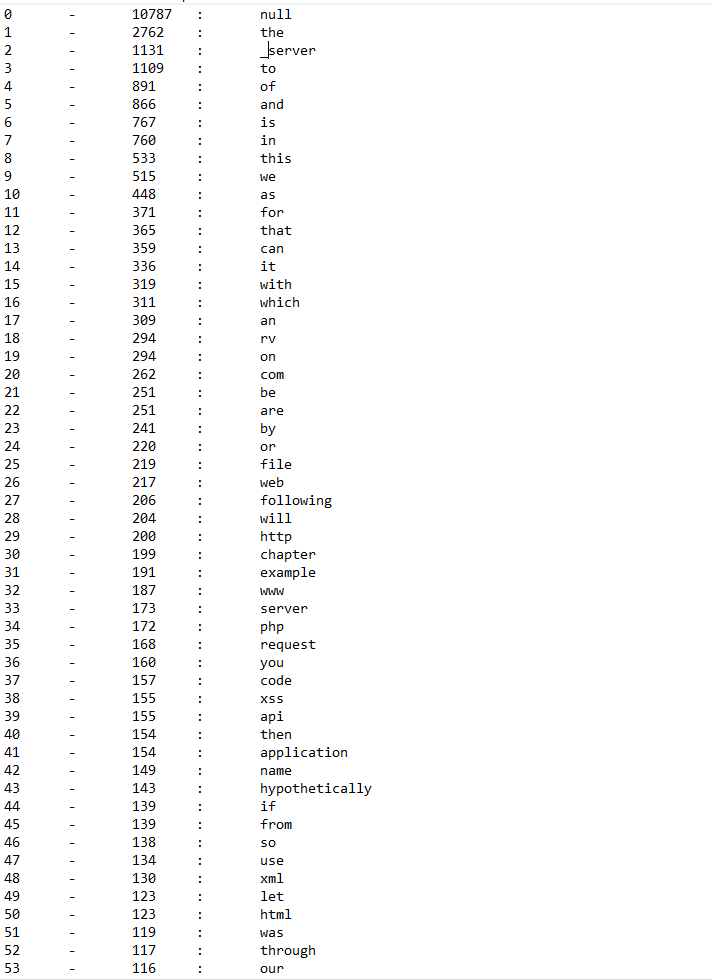
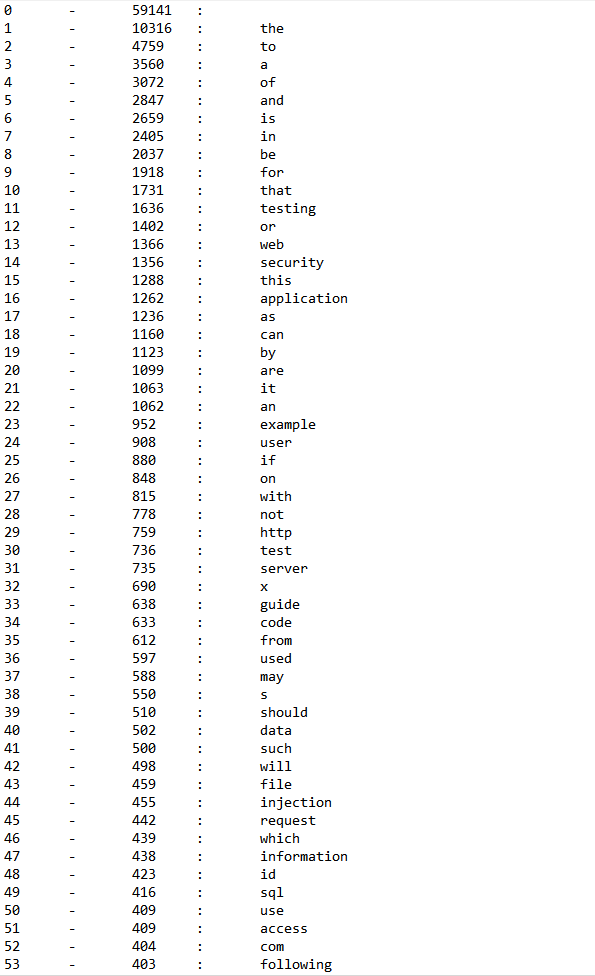
Update

Changed region(s): [[0.363, 0.0, 0.5748, 1.0], [0.1815, 0.0, 0.3025, 1.0], [0.0, 0.0, 0.0303, 1.0]]

diff --git a/grandmom.js b/grandmom.js
@@ -3,8 +3,7 @@ import {readPdfText} from 'npm:pdf-text-reader'
 async function main() {
     const path = await Deno.args[0]
     const pdfText = await readPdfText({url: path})
-    let textr = pdfText.replace(/[\n\d]/g, "")
-    let textChar = textr.replace(/\W/g, " ")
+    let textChar = pdfText.replace(/[\n\d\W\_]/g, " ")
     let saveTextChar = textChar.split(" ")
     saveTextChar.forEach((x, i)=>{
         saveTextChar[i] = x.toLowerCase()
@@ -14,17 +13,17 @@ async function main() {
 
     // Duplicate counter
     let counter = []
-    var current = null;
-    var cnt = 0;
+    var current
+    var cnt = 0
     for (var i = 0; i < saveTextChar.length; i++) {
-        if (saveTextChar[i] != current && saveTextChar[i].length > 1) {
+        if (saveTextChar[i] != current) {
             if (cnt > 0) {
                 counter[i] = cnt + '\t:\t' + current
             }
             current = saveTextChar[i]
-            cnt = 1;
+            cnt = 1
         } else {
-            cnt++;
+            cnt++ // Word counter
         }
     }
 
